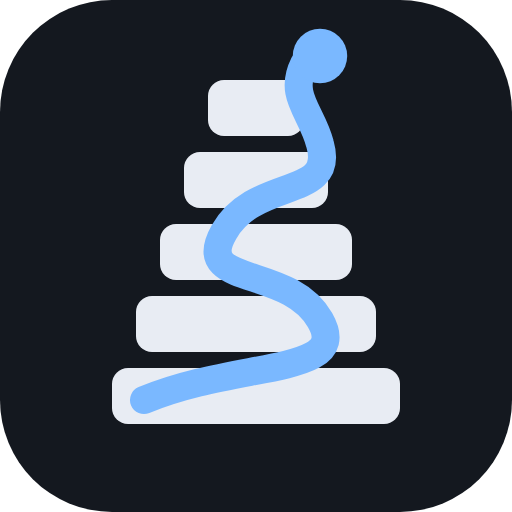
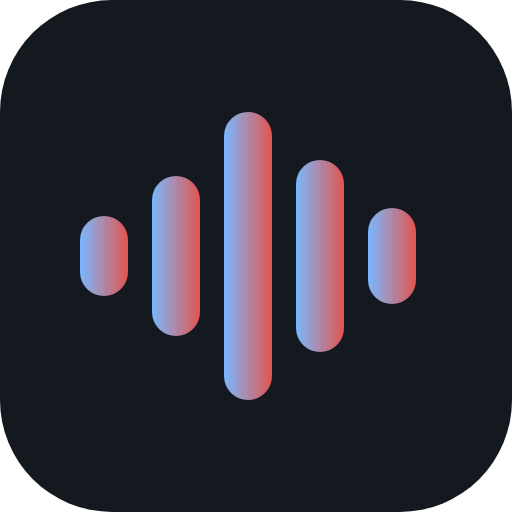
品牌图标定为声纹金字塔（A 方案）

Changed region(s): [[0.2188, 0.0312, 0.8125, 0.8438], [0.1562, 0.4062, 0.25, 0.5938]]

diff --git a/DECISIONS.md b/DECISIONS.md
@@ -66,8 +66,8 @@ moon 只负责项目/任务登记与调度（apps/pipeline、apps/web、apps/ios
 
 ## D10 品牌
 
-- 图标：阶梯金字塔（巴别塔）+ 盘旋向上的路 + 塔顶信号点。
+- 图标：声纹金字塔——声波柱构成塔形（音频 × 巴别塔），蓝→朱砂渐变寓意英文→中文。
   源文件 `apps/pipeline/docs/favicon.svg`，PNG 衍生 512/180/32。
-- 用色：深底 `#14181f`/`#0f1115`，塔身 `#e8ecf3`，信号蓝 `#7ab8ff`，
-  辅助朱砂 `#e2554f`（仅渐变场景）。
-- 反面教材：不要用错位横条（像「左对齐」图标）、不用纯声纹柱（通用音频感、无巴别塔）。
+- 用色：深底 `#14181f`/`#0f1115`，主色 `#7ab8ff`（信号蓝）→ `#e2554f`（朱砂）渐变，
+  深底 `#14181f`。
+- 反面教材：不要用错位横条（像「左对齐」图标）；阶梯+盘旋路方案已被否（偏插画感）。
